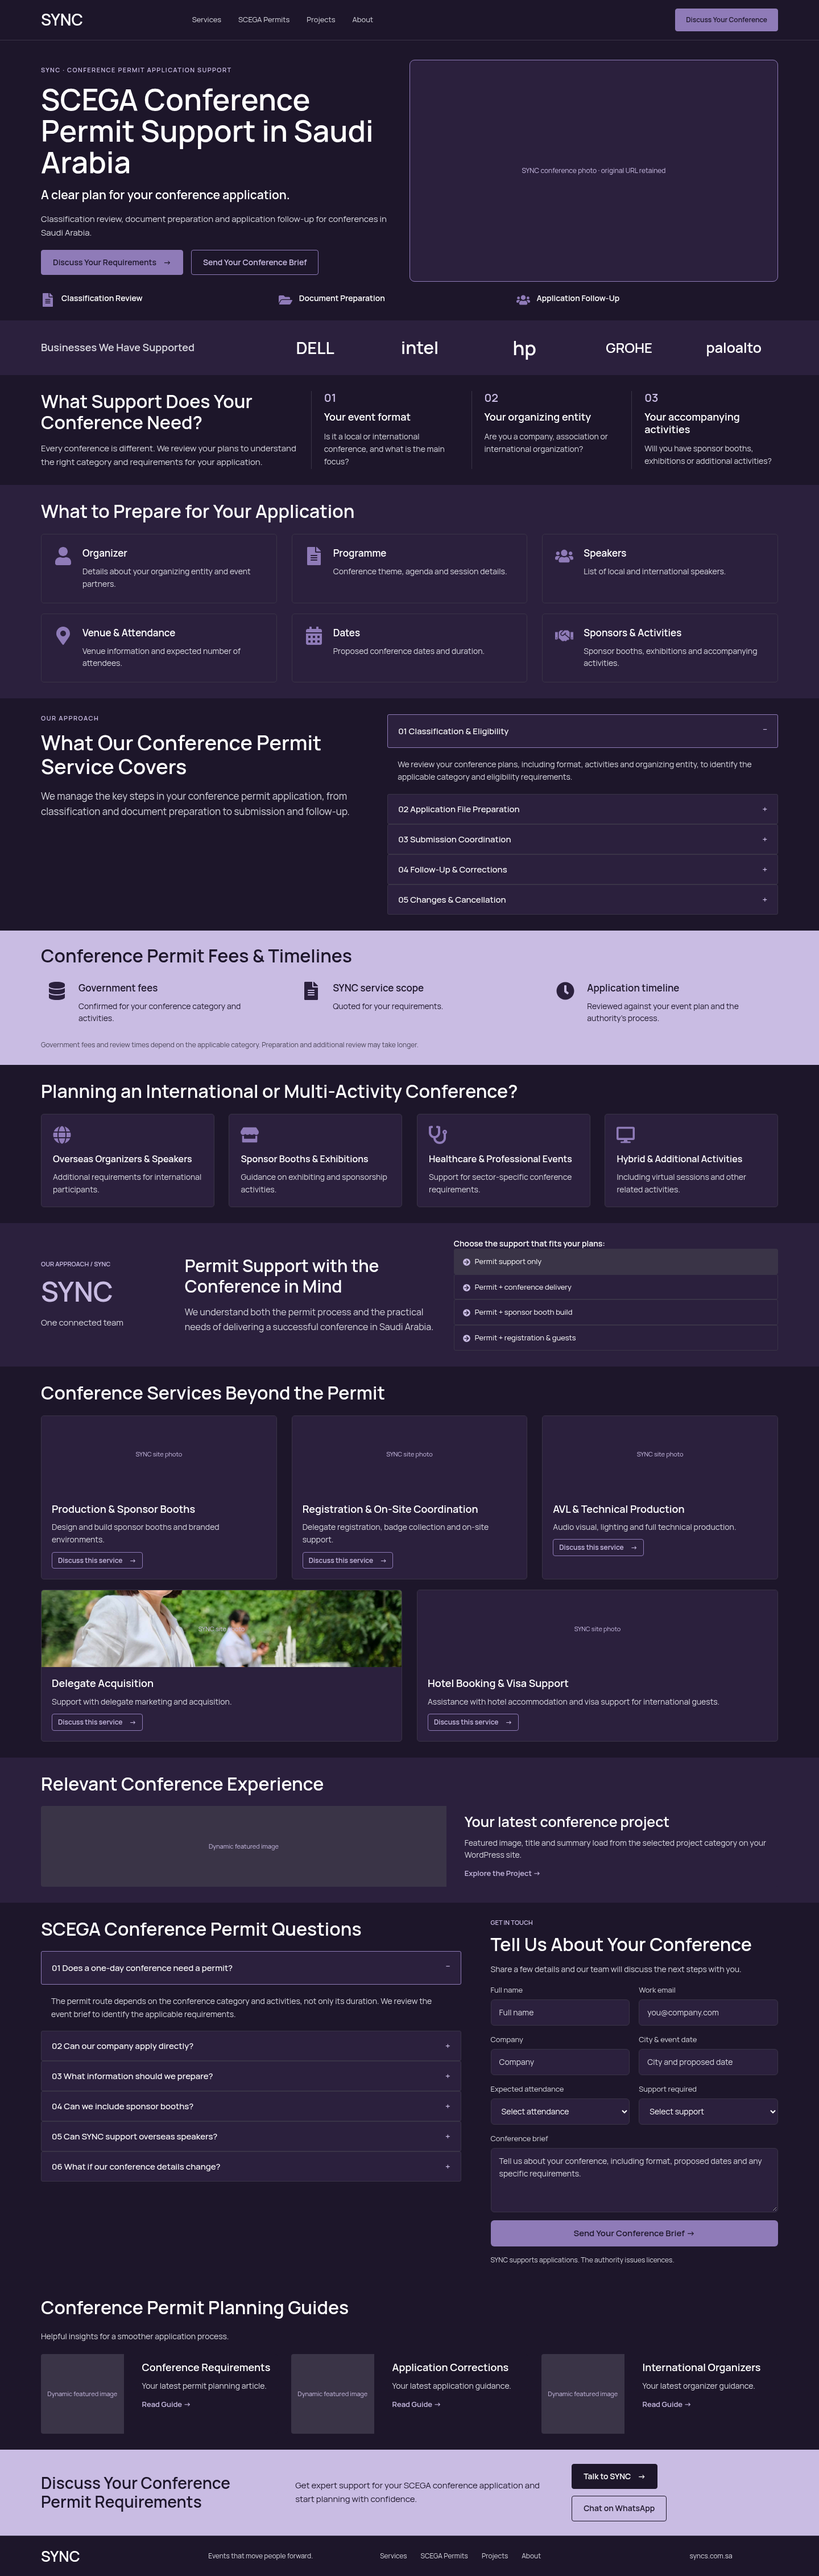
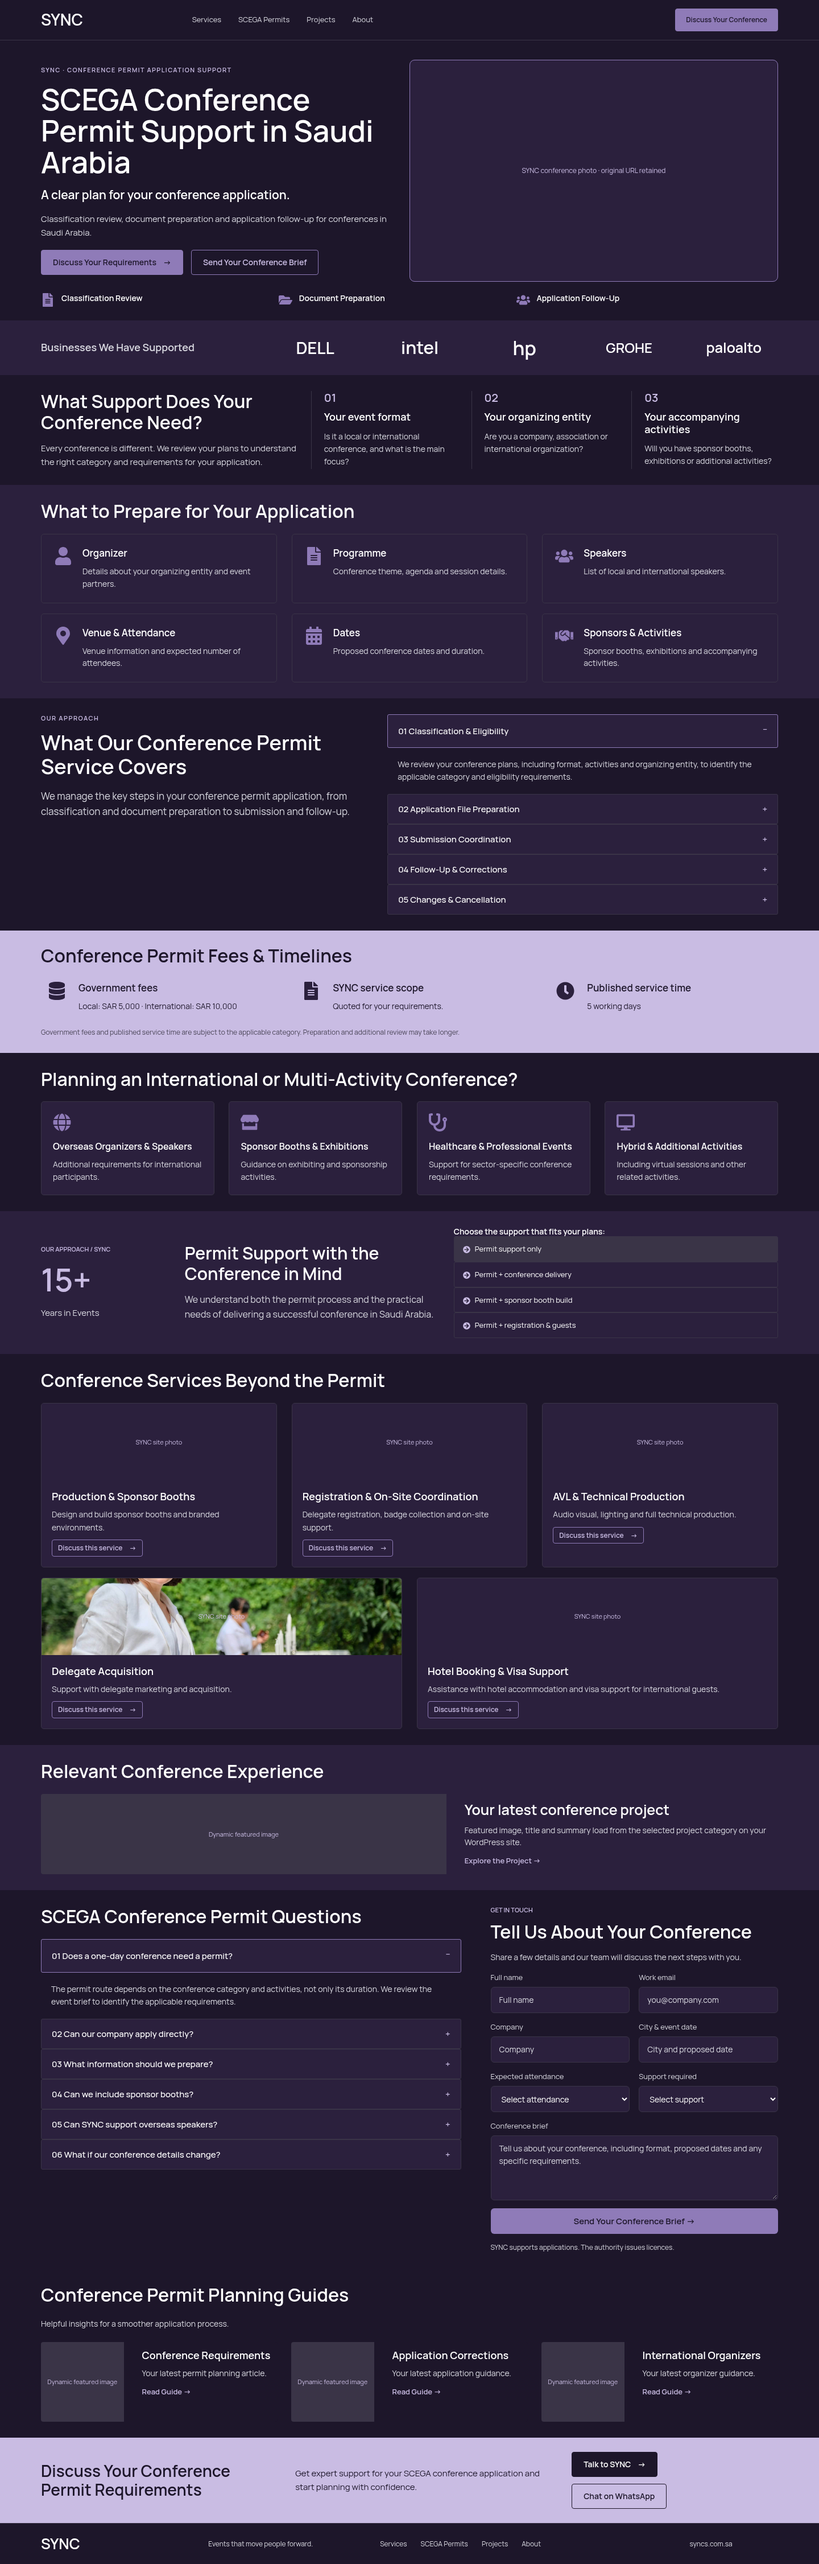
Include user-confirmed conference fees and experience figures

diff --git a/output/scega-conference-native/validation/build.py b/output/scega-conference-native/validation/build.py
@@ -151,15 +151,15 @@ def scope():
 
 
 def fees():
-    data = [("Government fees", "Confirmed for your conference category and activities.", "database"),
+    data = [("Government fees", "Local: SAR 5,000 · International: SAR 10,000", "database"),
         ("SYNC service scope", "Quoted for your requirements.", "file-alt"),
-        ("Application timeline", "Reviewed against your event plan and the authority’s process.", "clock")]
+        ("Published service time", "5 working days", "clock")]
     cards = [box("Fee column " + str(i), [icon_box("Fee content " + str(i), title, copy, icon, position="left",
         title_color=C["bg"], description_color=C["bg"], primary_color=C["panel"], icon_space=size(22))],
         **width(31), padding=dim(8, 12), flex_gap=gap(12)) for i, (title, copy, icon) in enumerate(data)]
     return section("cf-fees", "Conference fees and timelines", [heading("Fee heading", "Conference Permit Fees & Timelines", 32, color=C["bg"]),
         row("Three fee columns", cards, flex_gap=gap(20), flex_justify_content="space-between"),
-        paragraph("Fee note", "Government fees and review times depend on the applicable category. Preparation and additional review may take longer.", 12, text_color=C["ink"])],
+        paragraph("Fee note", "Government fees and published service time are subject to the applicable category. Preparation and additional review may take longer.", 12, text_color=C["ink"])],
         background_color=C["lavender"], padding=dim(26, 24), flex_gap=gap(18))
 
 
@@ -176,7 +176,7 @@ def multi_activity():
 
 def why_sync():
     mark = box("Why SYNC marker", [heading("Why SYNC eyebrow", "OUR APPROACH / SYNC", 11, "p", C["lavender"]),
-        heading("Why SYNC mark", "SYNC", 48, "div", C["lavender"]), paragraph("Why SYNC marker copy", "One connected team", 15)],
+        heading("Why SYNC mark", "15+", 56, "div", C["lavender"], typography_font_size_mobile=size(44)), paragraph("Why SYNC marker copy", "Years in Events", 15)],
         **width(17), flex_gap=gap(14), flex_justify_content="center")
     intro = box("Why SYNC introduction", [heading("Why SYNC heading", "Permit Support with the Conference in Mind", 30),
         paragraph("Why SYNC copy", "We understand both the permit process and the practical needs of delivering a successful conference in Saudi Arabia.", 16)],

diff --git a/output/scega-conference-native/design-spec.md b/output/scega-conference-native/design-spec.md
@@ -16,9 +16,9 @@ Manrope typography: 52px desktop H1, 44px tablet, 35px mobile; mostly 32px secti
 4. Classification: introduction plus three numbered native columns.
 5. Preparation: six Icon Boxes arranged as three-by-two cards.
 6. Service scope: copy and five-item native Nested Accordion, first item expanded.
-7. Fees and timelines: lavender band, three Icon Boxes, qualified explanatory copy.
+7. Fees and timelines: lavender band, three Icon Boxes, user-confirmed local/international fees and published service time, with the category-dependent note from the reference.
 8. International/multi-activity conferences: four native Icon Box cards.
-9. Why SYNC: native text mark, copy and four linked Icon List rows. These rows link to the brief; support choice is collected by the real form dropdown. They are not simulated radio controls.
+9. Why SYNC: native editable 15+ years text statistic, copy and four linked Icon List rows. These rows link to the brief; support choice is collected by the real form dropdown. They are not simulated radio controls.
 10. Beyond the permit: five editable photo/content cards in a three-plus-two arrangement.
 11. Experience: native Pro Posts, source `project`, one latest project, Classic skin with image left and linked title/excerpt/read-more. The source post type is present in the user's existing project Loop Grid export.
 12. Questions/contact: six-item Nested Accordion, first item expanded, alongside a native Pro Form with seven labeled fields and Collect Submissions.
@@ -30,7 +30,7 @@ Select the relevant conference/service taxonomy terms once in each Posts widget 
 
 ## Content and image distinctions
 
-The fixed government fees, five-day promise and 15+ years metric from the screenshot were not independently verified. The delivered default uses general fee/timeline language and an editable SYNC text mark instead of asserting those numbers. No regulatory approval or authorization badge is invented.
+The user explicitly confirmed the screenshot's figures: local government fee SAR 5,000, international fee SAR 10,000, published service time five working days, and 15+ years in events. These appear as editable native text, retaining the reference's category-dependent timing note. Their source is the user's confirmation rather than an independent regulatory audit. No regulatory approval or authorization badge is invented.
 
 The reference's conference-stage, city and hotel photographs are not supplied as separate assets. Six editable fixed-image placements retain five exact first-party URLs from the user's exports: CL-94 hero and the existing stand/business/guest/venue records. These are illustrative and not claimed to be the pictured hotels or reference conference. Dynamic sections use the real posts' Featured Images. No generated pictures, bundled stock images, data URIs or `[uc_local]` paths enter the templates. Site access remains blocked by proxy CONNECT 403; remote media responses and crops require review on staging.
 

diff --git a/output/scega-conference-native/qa-report.md b/output/scega-conference-native/qa-report.md
@@ -8,7 +8,7 @@ The native Form has seven uniquely identified labeled fields, valid textarea row
 
 Two Pro Posts widgets provide actual WordPress content sources: `project` (one latest item) and `post` (three latest items). Classic skin presentation controls and query controls were checked against retrieved public GPL compatibility source; the source was read, not installed or executed. No fixed date window, cross-language bypass, invented term IDs or imported template ID are set. The site owner must select the relevant service terms once. Actual live query results, taxonomy/language behavior and cache refresh were not tested.
 
-All six fixed-image placements retain five exact first-party URL records from the user's exports; zero guessed image URLs or embedded images. This does not verify availability. The reference's stage/hotel photos were not separately supplied. Client-name text wordmarks are editable Headings because the ZIP's logo URLs were local-only. The decoration behind the hero is intentionally omitted. The screenshot's fixed fees/times/experience metric are replaced with general editable copy pending confirmation.
+All six fixed-image placements retain five exact first-party URL records from the user's exports; zero guessed image URLs or embedded images. This does not verify availability. The reference's stage/hotel photos were not separately supplied. Client-name text wordmarks are editable Headings because the ZIP's logo URLs were local-only. The decoration behind the hero is intentionally omitted. The user explicitly confirmed local/international fees SAR 5,000/10,000, published service time five working days and 15+ years in events; the final export includes those figures as editable text, with the category-dependent note retained.
 
 173 explicit solid-background contrast checks pass: minimum text ratio 4.74:1, icon ratio 4.14:1. Theme focus indicators, placeholder rendering, image-dependent contrast and native frontend assistive technology still need staging review.
 

diff --git a/output/scega-conference-native/import-instructions-ar.md b/output/scega-conference-native/import-instructions-ar.md
@@ -38,7 +38,7 @@ Form الأصلي اسمه **SYNC Conference Permit Brief**. فيه الاسم،
 
 أسماء العملاء في الشريط مكتوبة بـHeading Widgets قابلة للتعديل، وليست صور شعارات. أسماء العملاء من المرجع الذي أرسلتِه؛ يمكن استبدالها بـImage Widgets من مكتبتك لو أردتِ الشعارات الأصلية. لم نخمن روابط الشعارات التي كانت محلية داخل ZIP.
 
-استخدمنا صياغة عامة للرسوم والمدة، ولم نثبت أرقام 5,000/10,000 ريال أو خمسة أيام أو 15+ سنة لعدم تأكيدها. النصوص قابلة للتحرير من Elementor.
+ثبّتنا الأرقام التي أكدتي اعتمادها: رسوم محلي 5,000 ريال، ودولي 10,000 ريال، ومدة خدمة منشورة خمسة أيام عمل، وخبرة 15+ سنة. كلها نصوص أصلية قابلة للتعديل، مع ملاحظة ارتباط الرسوم والمدة بالفئة واحتمال احتياج التجهيز أو المراجعة الإضافية لوقت أطول، كما في المرجع.
 
 ## التوافق والتحقق
 
